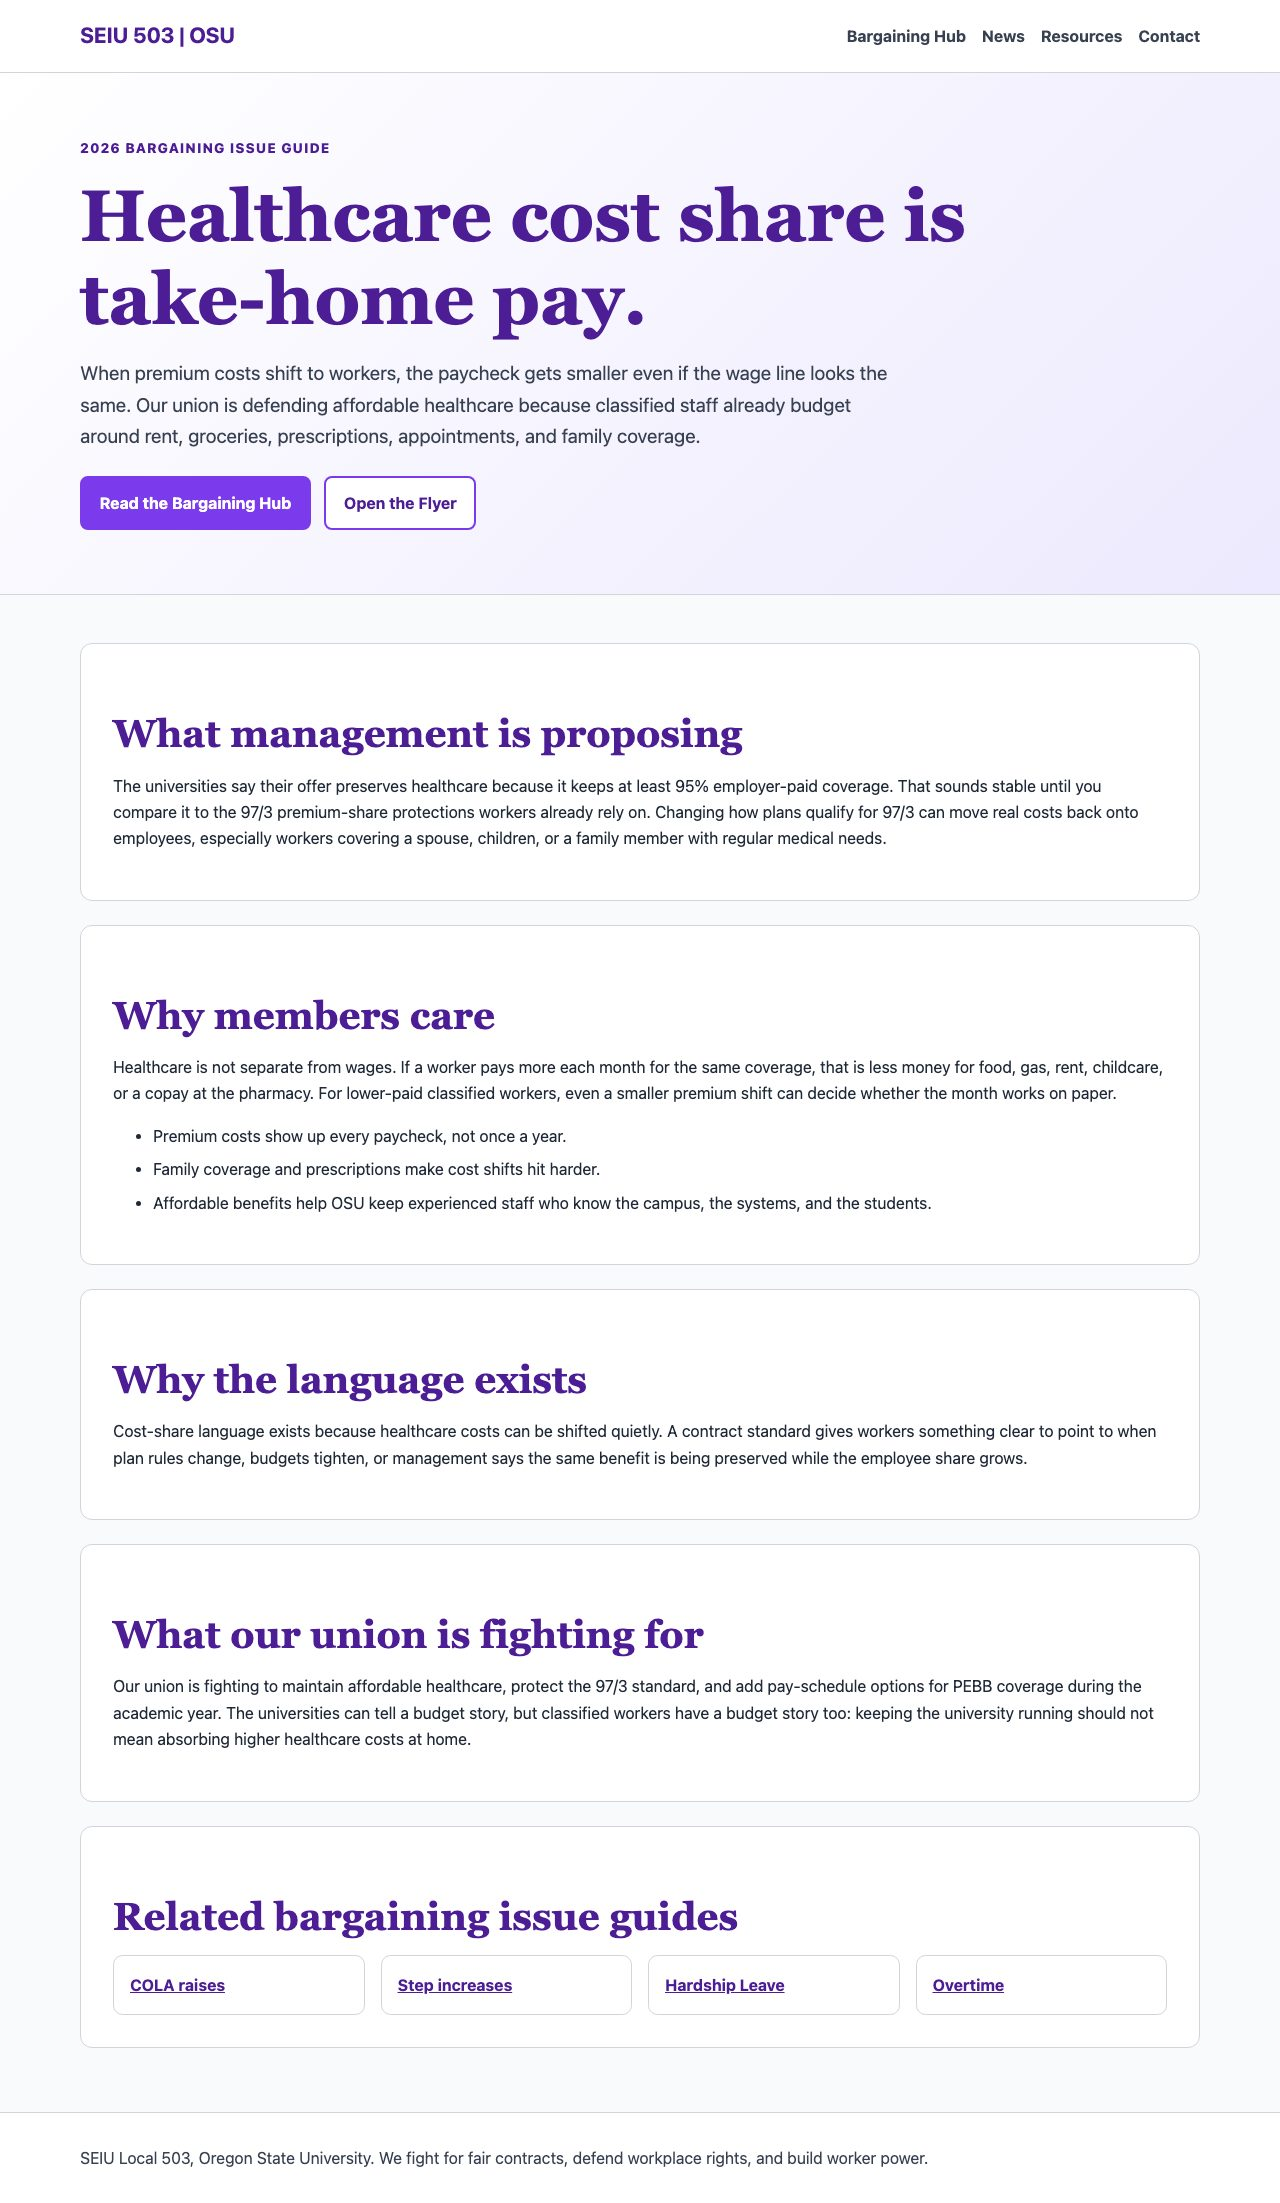
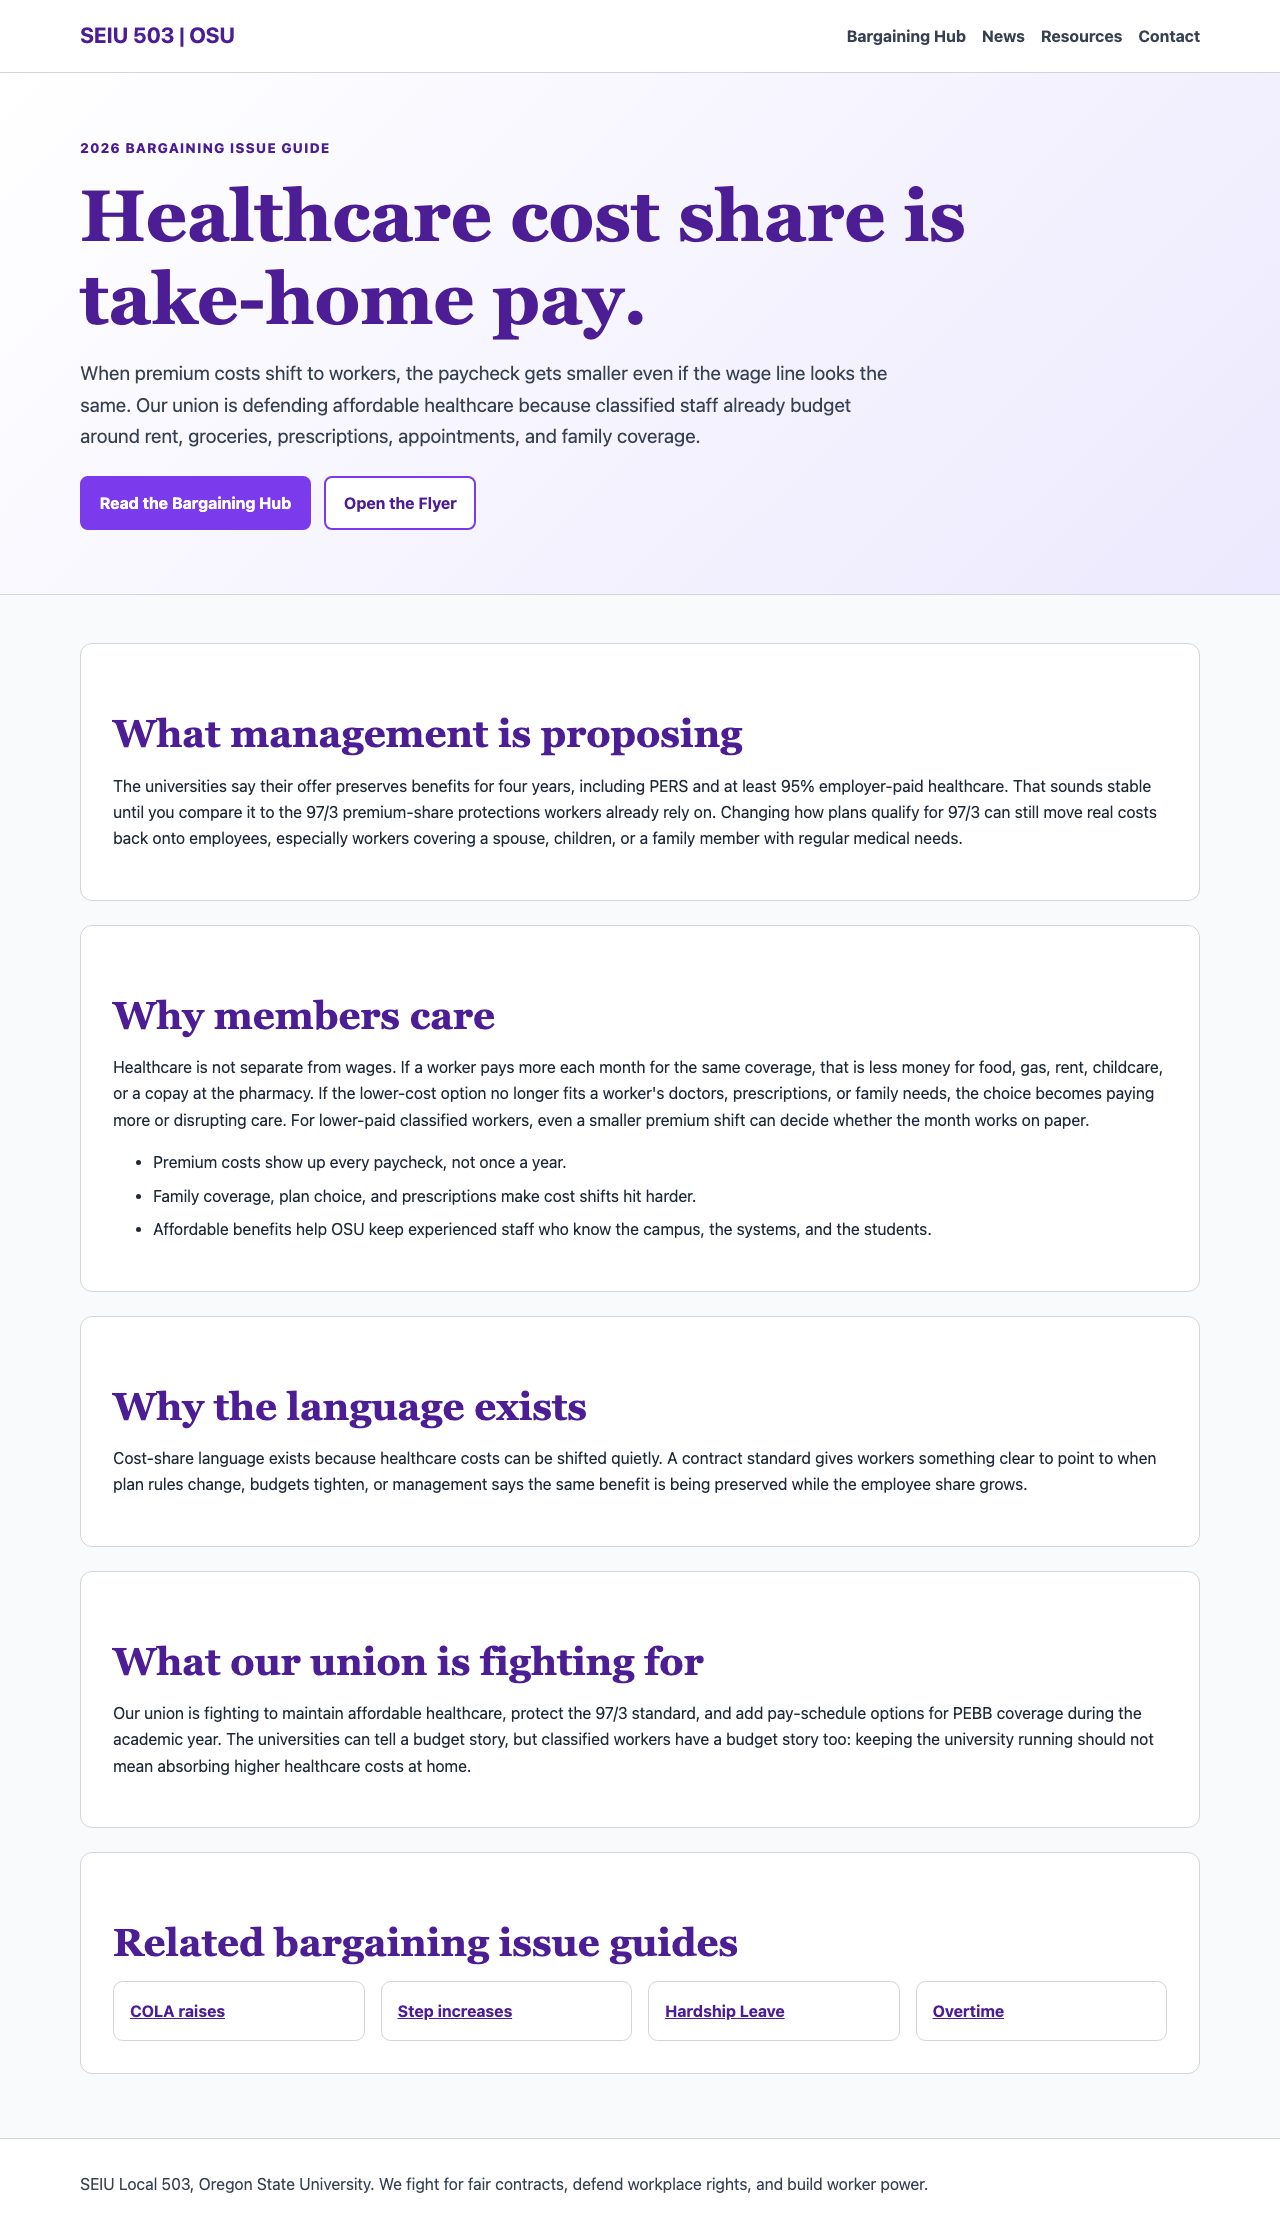
Clarify healthcare cost-share impact

diff --git a/2026-bargaining/healthcare-cost-share.html b/2026-bargaining/healthcare-cost-share.html
@@ -28,8 +28,8 @@
     <header><nav aria-label="Main navigation"><a class="brand" href="/index.html">SEIU 503 | OSU</a><div class="links"><a href="/2026-bargaining/index.html">Bargaining Hub</a><a href="/news.html">News</a><a href="/resources.html">Resources</a><a href="/contact.html">Contact</a></div></nav></header>
     <section class="hero"><div class="wrap"><p class="eyebrow">2026 Bargaining Issue Guide</p><h1>Healthcare cost share is take-home pay.</h1><p class="lede">When premium costs shift to workers, the paycheck gets smaller even if the wage line looks the same. Our union is defending affordable healthcare because classified staff already budget around rent, groceries, prescriptions, appointments, and family coverage.</p><div class="actions"><a class="btn primary" href="/2026-bargaining/index.html">Read the Bargaining Hub</a><a class="btn secondary" href="/2026-bargaining/Higher-Ed-They-Say-We-Say-Flyer.pdf">Open the Flyer</a></div></div></section>
     <main id="main-content"><div class="wrap">
-        <section class="panel"><h2>What management is proposing</h2><p>The universities say their offer preserves healthcare because it keeps at least 95% employer-paid coverage. That sounds stable until you compare it to the 97/3 premium-share protections workers already rely on. Changing how plans qualify for 97/3 can move real costs back onto employees, especially workers covering a spouse, children, or a family member with regular medical needs.</p></section>
-        <section class="panel"><h2>Why members care</h2><p>Healthcare is not separate from wages. If a worker pays more each month for the same coverage, that is less money for food, gas, rent, childcare, or a copay at the pharmacy. For lower-paid classified workers, even a smaller premium shift can decide whether the month works on paper.</p><ul><li>Premium costs show up every paycheck, not once a year.</li><li>Family coverage and prescriptions make cost shifts hit harder.</li><li>Affordable benefits help OSU keep experienced staff who know the campus, the systems, and the students.</li></ul></section>
+        <section class="panel"><h2>What management is proposing</h2><p>The universities say their offer preserves benefits for four years, including PERS and at least 95% employer-paid healthcare. That sounds stable until you compare it to the 97/3 premium-share protections workers already rely on. Changing how plans qualify for 97/3 can still move real costs back onto employees, especially workers covering a spouse, children, or a family member with regular medical needs.</p></section>
+        <section class="panel"><h2>Why members care</h2><p>Healthcare is not separate from wages. If a worker pays more each month for the same coverage, that is less money for food, gas, rent, childcare, or a copay at the pharmacy. If the lower-cost option no longer fits a worker's doctors, prescriptions, or family needs, the choice becomes paying more or disrupting care. For lower-paid classified workers, even a smaller premium shift can decide whether the month works on paper.</p><ul><li>Premium costs show up every paycheck, not once a year.</li><li>Family coverage, plan choice, and prescriptions make cost shifts hit harder.</li><li>Affordable benefits help OSU keep experienced staff who know the campus, the systems, and the students.</li></ul></section>
         <section class="panel"><h2>Why the language exists</h2><p>Cost-share language exists because healthcare costs can be shifted quietly. A contract standard gives workers something clear to point to when plan rules change, budgets tighten, or management says the same benefit is being preserved while the employee share grows.</p></section>
         <section class="panel"><h2>What our union is fighting for</h2><p>Our union is fighting to maintain affordable healthcare, protect the 97/3 standard, and add pay-schedule options for PEBB coverage during the academic year. The universities can tell a budget story, but classified workers have a budget story too: keeping the university running should not mean absorbing higher healthcare costs at home.</p></section>
         <section class="panel"><h2>Related bargaining issue guides</h2><div class="grid"><a class="card" href="/2026-bargaining/cola.html">COLA raises</a><a class="card" href="/2026-bargaining/step-increases.html">Step increases</a><a class="card" href="/2026-bargaining/hardship-leave.html">Hardship Leave</a><a class="card" href="/2026-bargaining/overtime.html">Overtime</a></div></section>